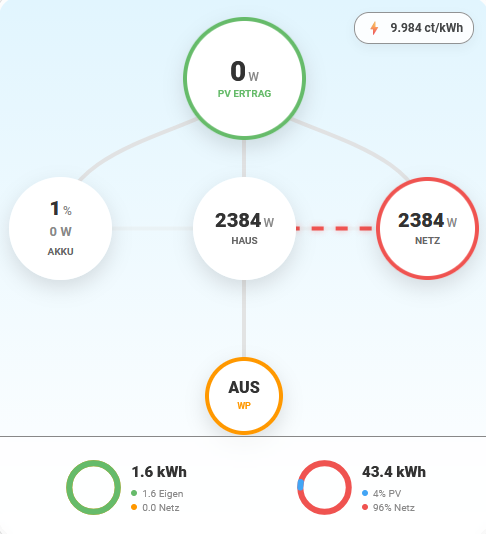
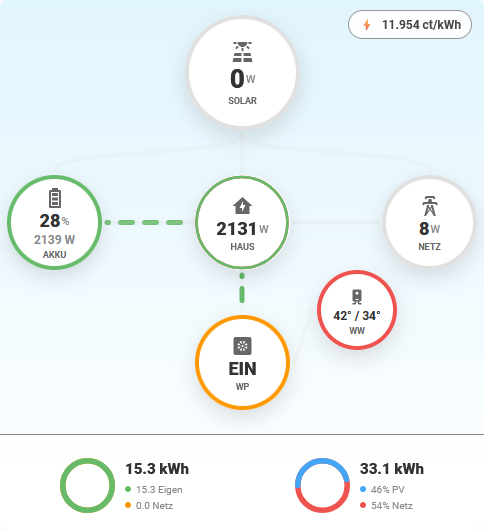
Update README for v0.5.3 and refresh screenshots

diff --git a/README.md b/README.md
@@ -4,18 +4,17 @@
 | --- | --- |
 | ![Light Mode](Screenshot-bright.png) | ![Dark Mode](Screenshot-dark.png) |
 
-A modern, animated power flow card for Home Assistant, inspired by the FusionSolar design. It provides a beautiful visualization of your energy flows (Solar, Battery, Grid, Home, and an optional Heat Pump/Extra Load).
+A modern, animated power flow card for Home Assistant, inspired by the FusionSolar design. It provides a beautiful visualization of your energy flows (Solar, Battery, Grid, Home, Heat Pump, and Water Storage).
 
 ## Features
 - **Visual Editor**: Configure everything via the Home Assistant UI. No YAML required.
-- **Animated Flows**: Real-time animation of energy directions with smooth updates.
+- **Animated Flows**: Real-time animation of energy directions with smooth, stutter-free updates.
 - **Dynamic Autarky Ring**: A visual indicator around the home icon showing the current mix of self-produced vs. grid energy.
-- **Integrated Icons**: Modern icons for all components (Solar, Battery, Home, Grid, Heat Pump).
+- **Integrated Icons**: Modern icons for all components (Solar, Battery, Home, Grid, Heat Pump, Boiler).
+- **DHW Satellite**: Dedicated display for your hot water storage / boiler temperatures (supports up to two sensors).
 - **Auto-Calculation**: Automatically calculates home consumption from available sensors (Solar + Grid + Battery).
-- **Flexible Logic**: Inversion toggles for Grid, Battery, and Heat Pump sensors to match any setup.
-- **Dynamic Labels**: Change all text (e.g., rename "WP" to "Car Charger").
-- **Theme Support**: Automatically adapts to Dark and Light modes with enhanced neon-glow effects in dark mode.
-- **Daily Stats**: Built-in donut charts for self-consumption and PV-coverage (optional).
+- **Flexible Logic**: Inversion toggles for Grid, Battery, and Heat Pump sensors to match any hardware setup.
+- **Theme Support**: Automatically adapts to Dark and Light modes with enhanced neon-glow effects.
 
 ## Color Logic
 
@@ -34,6 +33,8 @@ The card uses colors to indicate the source and status of your energy:
 - **Battery**: **Blue** (Charging), **Green** (Discharging).
 - **Grid**: **Red** (Import), **Green** (Export/Feed-in).
 - **Home**: Green (>90% Autarky), Orange (>30%), Red (<30%).
+- **Solar**: **Green** (Producing), **Grey** (Inactive).
+- **DHW**: **Red** (Heat indicator).
 
 ## Installation
 
@@ -42,13 +43,6 @@ The card uses colors to indicate the source and status of your energy:
 2. Click the three dots in the top right and select **Custom repositories**.
 3. Add the URL `https://github.com/kitzi806/modern-solar-flow-card` and select **Lovelace** as the category.
 4. Click **Install**.
-
-### Manual
-1. Download `modern-solar-flow-card.js` from the latest release.
-2. Upload it to your `<config>/www/` directory.
-3. Add the resource in HA: **Settings** -> **Dashboards** -> **Resources** -> **Add Resource**.
-   - URL: `/local/modern-solar-flow-card.js`
-   - Type: `JavaScript Module`
 
 ## Configuration
 
@@ -63,6 +57,9 @@ The card is best configured using the UI editor.
 | `battery_power_entity` | Entity providing current battery power (W). |
 | `battery_entity` | Entity providing battery state of charge (%). |
 | `wp_entity` | (Optional) Heat pump or extra load (supports sensors, switches, etc.). |
+| `show_dhw` | Toggle visibility of the hot water storage (DHW) satellite. |
+| `dhw_temp_top_entity` | DHW Temperature sensor for the top section. |
+| `dhw_temp_bottom_entity` | DHW Temperature sensor for the bottom section. |
 | `invert_grid` | Invert grid logic (Toggle if Export/Import are swapped). |
 | `invert_battery` | Invert battery logic (Toggle if Charging/Discharging are swapped). |
 | `invert_wp` | Invert heat pump logic (e.g. if Switch OFF = Active). |
